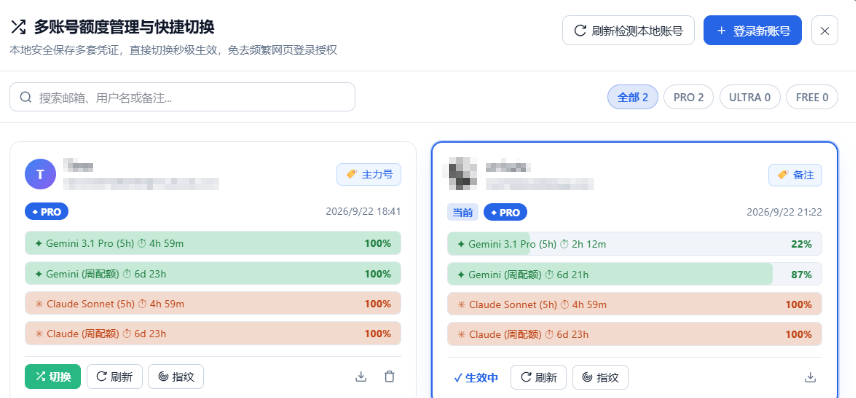
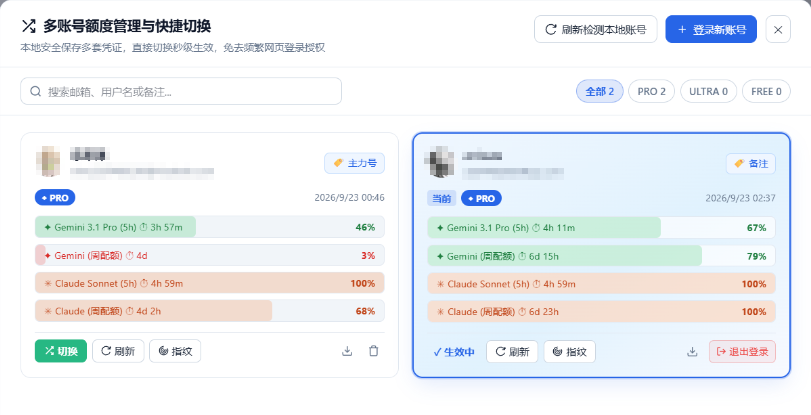
docs: showcase latest v0.1.5 release screenshots with privacy masking and skills hub

diff --git a/README.md b/README.md
@@ -59,9 +59,16 @@
 ### 3. 多账号原生管理与底栏一体化交互
 深度集成无限动态账号池，点击底栏头像一键秒切，支持独立配额监控与高质感悬浮提示：
 
-| 多账号额度管理与快捷切换面板 | 底栏头像一体化无缝秒切入口与悬浮窗 |
+| 多账号额度管理与快捷切换面板 (隐私打码保护) | 底栏头像一体化无缝秒切入口与悬浮窗 |
 | :---: | :---: |
 | <img src="assets/verified_account_switcher_live.png" width="450" /> | <img src="assets/verified_bottom_profile_tooltip_live.png" width="450" /> |
+
+### 4. 可视化技能中心 (Skills Hub) 实测
+输入框工具栏一键呼出，按分类快速检索并调用 42+ 款工程与设计技能：
+
+| 可视化技能中心面板 (内置 42 项生态技能分类与即时检索) |
+| :---: |
+| <img src="assets/verified_skills_hub_live.png" width="750" /> |
 
 ---
 
@@ -151,9 +158,13 @@
 
 ### 可视化技能中心 (Skills Hub)
 - **输入框专属技能入口**：聊天工具栏常驻技能中心入口，点击即可呼出优雅的主题自适应技能弹窗。
-- **35+ 个精选生态技能**：涵盖「架构与工程」、「设计与UI」、「审查与诊断」、「办公与文档」、「Gemini生态」五大分类，支持按名称、描述与关键词实时检索。
+- **42+ 项精选生态技能**：涵盖「架构与工程」、「设计与UI」、「审查与诊断」、「办公与文档」、「Gemini生态」五大分类，支持按名称、描述与关键词实时检索。
 - **一键调用与智能填充**：点击卡片一键在输入框中填入 `$skill-name` 并自动聚焦光标，轻松衔接后续提示词。
 - **扩展与自定义兼容**：支持自动发现工作区与本地扩展的自定义技能，动态增量刷新。
+
+| 可视化技能中心面板 (内置 42 项专业开发技能分类与即时检索) |
+| :---: |
+| <img src="assets/verified_skills_hub_live.png" width="750" /> |
 
 ### 上下文原生截图唤起
 - **「+」菜单原生集成**：在对话框左侧「+」上下文菜单中原生提供「屏幕截图 (Win+Shift+S)」选项。

diff --git a/README_EN.md b/README_EN.md
@@ -52,9 +52,16 @@ Eliminates DOM oscillation loops, delivering sub-millisecond response to convers
 ### 3. Native Multi-Account Switcher & Bottom Bar Integration
 Seamless account switching, dynamic profile pool, quota telemetry, and integrated status bar profile pill:
 
-| Multi-Account Quota & Switcher Modal | Integrated Profile Capsule & Dynamic Tooltip |
+| Multi-Account Quota & Switcher Modal (Privacy Masked) | Integrated Profile Capsule & Dynamic Tooltip |
 | :---: | :---: |
 | <img src="assets/verified_account_switcher_live.png" width="450" /> | <img src="assets/verified_bottom_profile_tooltip_live.png" width="450" /> |
+
+### 4. Visual Skills Hub Showcase
+Direct access button on the chat input bar opening a modern, theme-adaptive skills selector:
+
+| Visual Skills Hub (42+ Built-in & Ecosystem Development Skills) |
+| :---: |
+| <img src="assets/verified_skills_hub_live.png" width="750" /> |
 
 ---
 
@@ -116,9 +123,13 @@ Throughout the architectural conception and UX design of **Antigravity Enhance T
 
 ### Visual Skills Hub
 - **Dedicated Toolbar Trigger**: Direct access button on the chat input bar opening a modern, theme-adaptive skills selector.
-- **35+ Built-in & Ecosystem Skills**: Categorized into Architecture & Engineering, Design & UI, Review & Diagnosis, Documents, and Gemini Ecosystem, with instant fuzzy search.
+- **42+ Built-in & Ecosystem Skills**: Categorized into Architecture & Engineering, Design & UI, Review & Diagnosis, Documents, and Gemini Ecosystem, with instant fuzzy search.
 - **One-Click Invocation**: Click any skill card to insert `$skill-name` into the chat box with automatic cursor focus.
 - **Dynamic Skill Discovery**: Detects custom user skills from workspace and global directories.
+
+| Visual Skills Hub (42+ Built-in & Ecosystem Development Skills) |
+| :---: |
+| <img src="assets/verified_skills_hub_live.png" width="750" /> |
 
 ### Native Screenshot Integration
 - **"+" Context Menu Access**: Built-in screenshot item directly inside the "+" context menu (`Win+Shift+S`).
